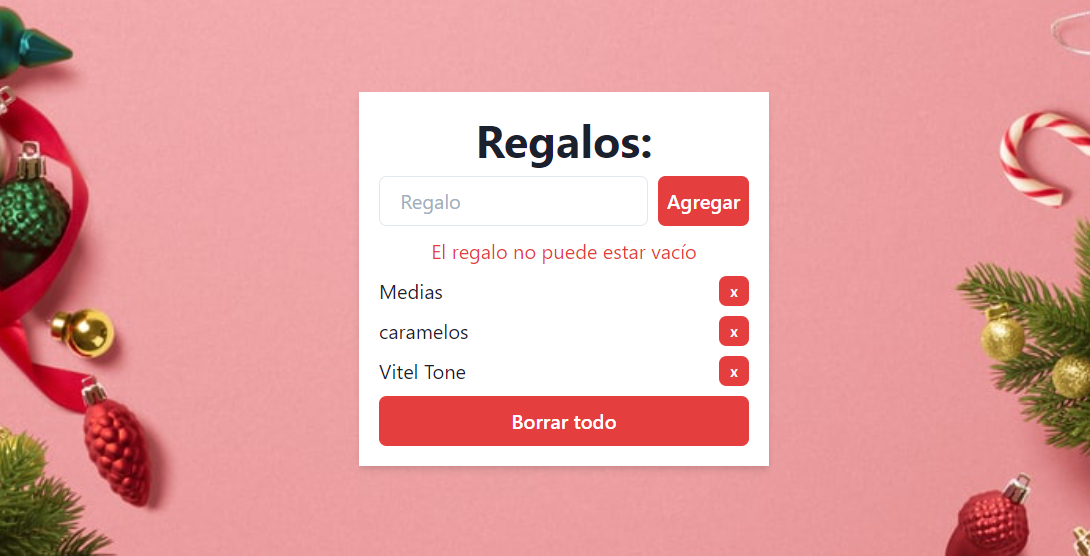
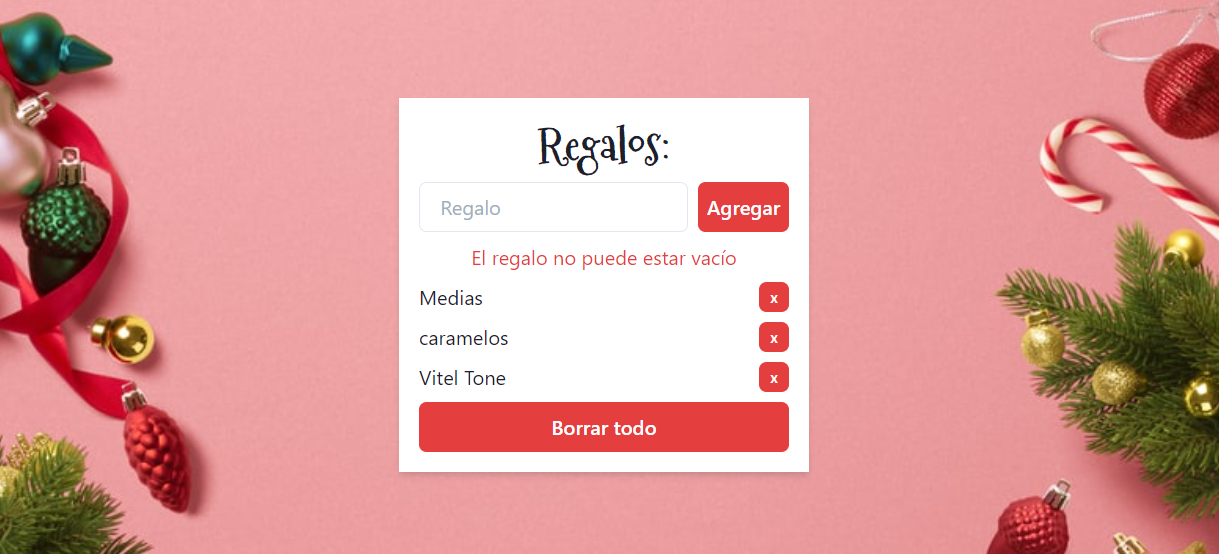
change font family heading

diff --git a/src/App.jsx b/src/App.jsx
@@ -62,7 +62,7 @@ function App() {
   return (
     <Flex alignItems="center" justifyContent="center" minH="100vh" w="100%">
       <VStack background="white" boxShadow="md" p={4} w="30%">
-        <Heading>Regalos:</Heading>
+        <Heading fontFamily="'Mountains of Christmas'">Regalos:</Heading>
         <Flex as="form" gap={2} onSubmit={handlerSubmit}>
           <Input
             placeholder="Regalo"

diff --git a/index.html b/index.html
@@ -5,6 +5,7 @@
     <link rel="icon" type="image/svg+xml" href="/src/favicon.svg" />
     <meta name="viewport" content="width=device-width, initial-scale=1.0" />
     <title>Vite App</title>
+    <link href="https://fonts.googleapis.com/css2?family=Mountains+of+Christmas:wght@700&display=swap" rel="stylesheet">
   </head>
   <body>
     <div id="root"></div>
